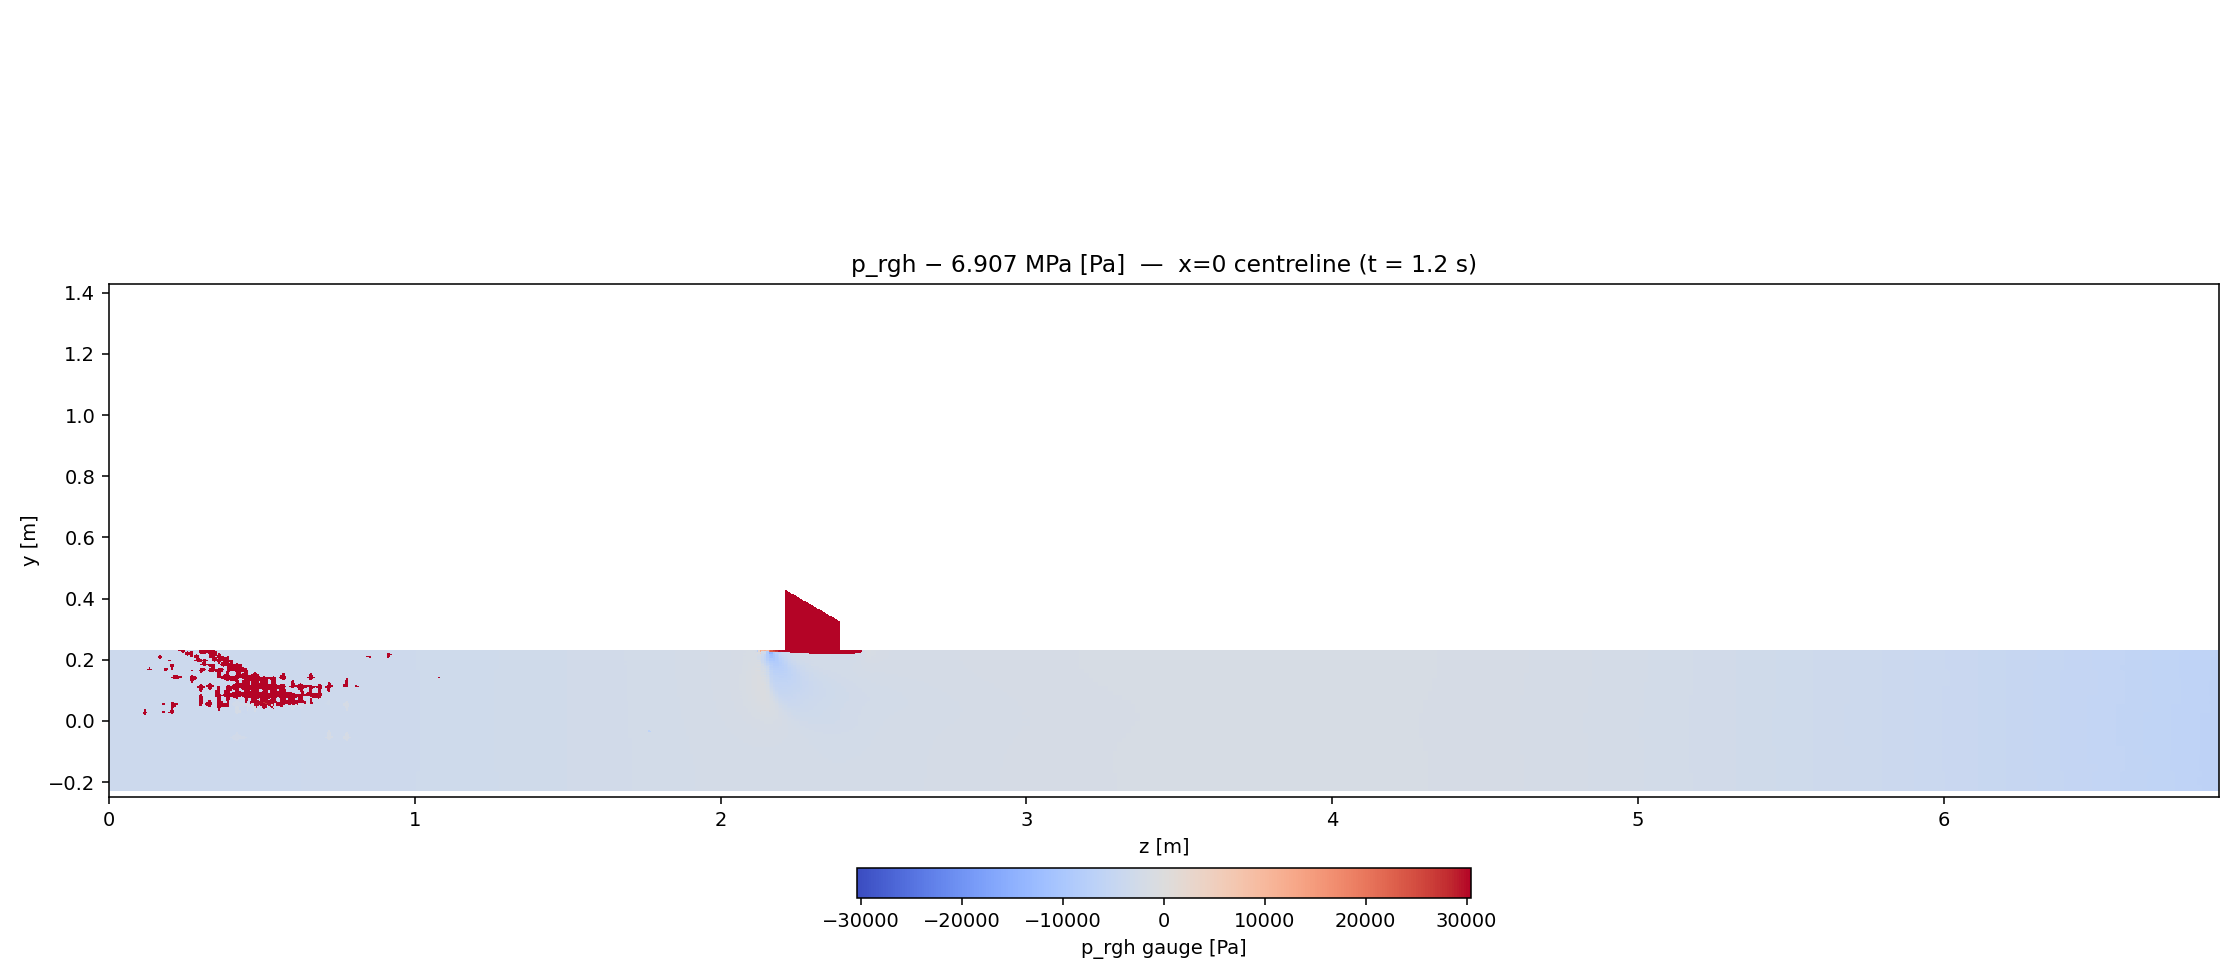
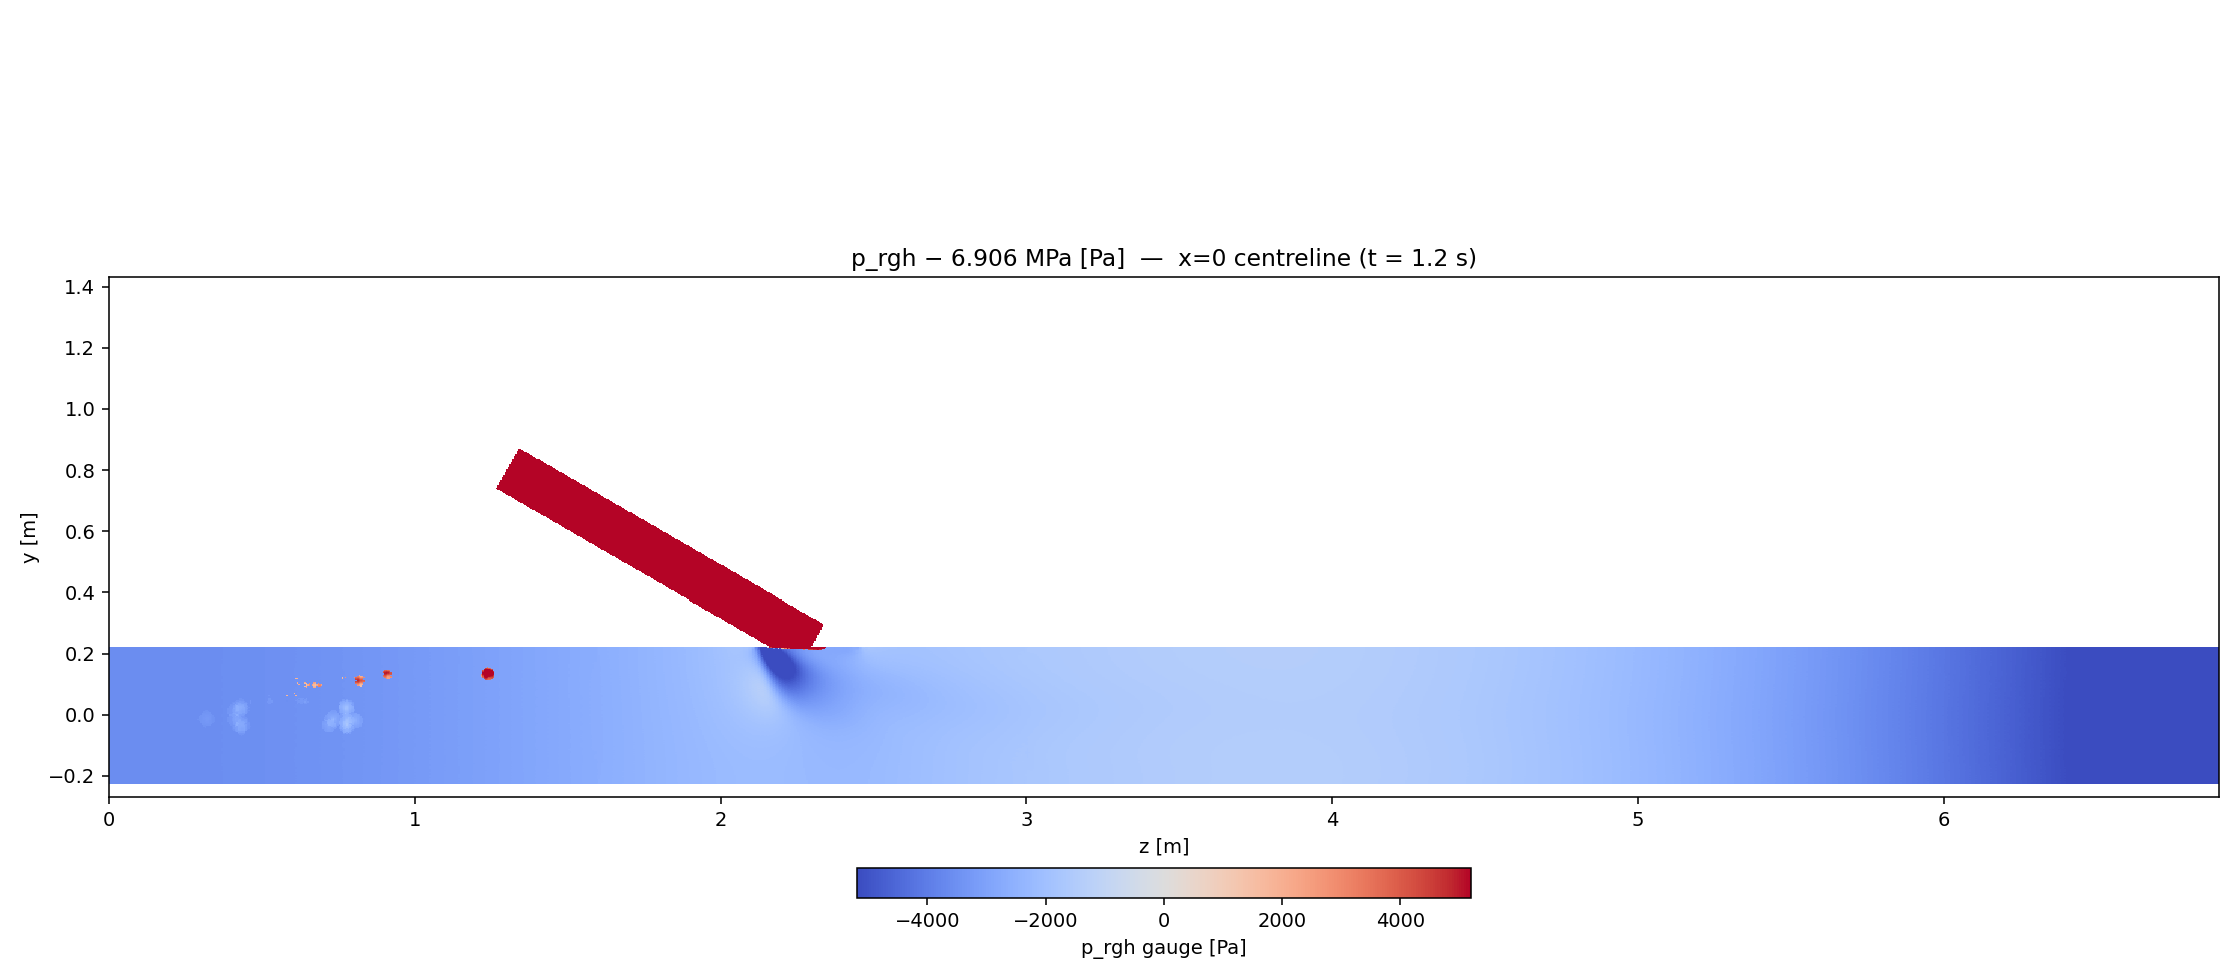
30deg figures: fix branch geom, IDW + IQR-based outlier filter, clean H2
Three rendering bugs spotted on the H2/U/p_rgh xz slices and now fixed:

* Branch geometry mask was hardcoded for a 90 deg vertical pipe; the slice
  thus carved an upright cylinder out of the rendered field even though the
  real branch is tilted at 30 deg.  The mask now reads alpha_deg from
  case_info.json and projects each grid point onto a tilted-axis cylinder.
  Fixes the unphysical wedges of "fluid" floating above the pipe.

* k=1 nearest-neighbour with a 4 cm distance cap produced speckled accept/
  reject patterns on the coarse upstream background mesh (~10 cm cells).
  Switched to k=4 inverse-distance-weighted interpolation with a looser
  12 cm cap, which removes the speckle without losing fidelity at the
  refined junction.

* snappyHexMesh leaves a few thousand frozen-IC orphan cells stuck at the
  operating reference pressure (~270 kPa above the bulk fluid) and at H2 = 1
  (the branch_inlet fixedValue).  These were dominating the colourmap and
  injecting greenish IDW-blended specks far upstream.  Added two filters:
    - IQR band [Q1 - k*IQR, Q3 + k*IQR] (k = 50 for p_rgh) on the cell pool
      before kNN, keeps the bulk gradient and downstream recovery while
      rejecting the orphan tail
    - hard cap (vals < 0.5) for H2 with a spatial exemption: cells inside
      the analytical branch volume keep their H2 = 1 (they are the legit
      pure-hydrogen jet, not orphans), only out-of-branch H2 = 1 cells get
      dropped
[…]

diff --git a/doe/results_full_30deg/tools/make_figures.py b/doe/results_full_30deg/tools/make_figures.py
@@ -22,6 +22,7 @@ PYVISTA_OFF_SCREEN=true for headless execution.
 from __future__ import annotations
 
 import argparse
+import math
 import os
 import sys
 from pathlib import Path
@@ -212,13 +213,19 @@ Z_JCT_HALF   = 2.30
 def _render_centerline_interp(internal, field: str, out: Path, *,
                               title: str, cmap: str, clim=None,
                               r_branch: float = 0.10, zjct: float = Z_JCT_HALF,
-                              l_branch: float = 1.15, x_plane: float = 0.015,
+                              l_branch: float = 1.15, x_plane: float = 0.05,
+                              alpha_deg: float = 90.0,
+                              outlier_pct: float | None = None,
+                              outlier_max: float | None = None,
+                              outlier_min: float | None = None,
                               label: str | None = None):
     """Render a scalar on the x=0 centreline plane via point-interpolation.
 
-    Kernel-based interpolation from cell centres on a regular (y,z) image
-    grid, then an analytical geometry mask for pipe walls.  Eliminates the
-    'white notch' slicing artifact at the T-junction.
+    k=4 inverse-distance-weighted interpolation from cell centres onto a
+    regular (y,z) image grid, masked by an analytical pipe-geometry mask.
+    Handles a branch that meets the main pipe at an arbitrary angle
+    `alpha_deg` (90 deg for the original geometry, 30 deg for forward-tilt,
+    150 deg for counter-flow).
     """
     import matplotlib
     matplotlib.use("Agg")
@@ -237,34 +244,117 @@ def _render_centerline_interp(internal, field: str, out: Path, *,
     if key not in _CTR_CACHE_FIG:
         _CTR_CACHE_FIG[key] = np.asarray(internal.cell_centers().points)
     ctrs = _CTR_CACHE_FIG[key]
-    vals = np.asarray(internal.cell_data[field])
+    vals = np.asarray(internal.cell_data[field], dtype=float).copy()
+
+    # Outlier rejection on the *cell values*.  snappyHexMesh leaves frozen-
+    # field "orphan" / dead-zone cells stuck at their initial-condition value
+    # (e.g. p_rgh = p_atm sitting ~270 kPa above the bulk fluid; H2 stuck at
+    # 1.0 instead of 0 from a left-over initialField).  Without rejection
+    # these contaminate the kNN.  Two filter knobs:
+    #   - outlier_pct : IQR multiplier k -- keeps [Q1-k*IQR, Q3+k*IQR].
+    #     Adapts to the field's natural variability (good for unimodal
+    #     fields like p_rgh).  Skipped when IQR == 0.
+    #   - outlier_max / outlier_min : hard caps -- drop cells with values
+    #     above / below the cap (good for bounded fields like mass fractions
+    #     where the orphan value is known a priori).
+    if outlier_pct is not None and outlier_pct > 0.0:
+        k_iqr = float(outlier_pct)
+        q1, q3 = np.nanpercentile(vals, [25.0, 75.0])
+        iqr = q3 - q1
+        if iqr > 0:
+            lo = q1 - k_iqr * iqr
+            hi = q3 + k_iqr * iqr
+            ok = (vals >= lo) & (vals <= hi)
+            ctrs = ctrs[ok]
+            vals = vals[ok]
+    # Spatial-aware hard caps: orphan cells stuck at the field's initial value
+    # need to be filtered, but the BRANCH PIPE legitimately holds extreme
+    # values (the branch_inlet sets H2 = 1.0, full hydrogen) so we must spare
+    # any cell that is geometrically inside the analytical branch volume.
+    if outlier_max is not None or outlier_min is not None:
+        a_rad = math.radians(alpha_deg)
+        sa_c, ca_c = math.sin(a_rad), math.cos(a_rad)
+        nb = np.array([0.0, sa_c, -ca_c])
+        base = np.array([0.0, R_MAIN_HALF, zjct])
+        dvec = ctrs - base
+        s_along = dvec @ nb
+        perp = dvec - np.outer(s_along, nb)
+        r_perp = np.linalg.norm(perp, axis=1)
+        in_branch_cell = (s_along >= -0.05) & (s_along <= l_branch + 0.05) \
+                         & (r_perp < r_branch * 1.05)
+        ok = np.ones_like(vals, dtype=bool)
+        if outlier_max is not None:
+            ok &= (vals < outlier_max) | in_branch_cell
+        if outlier_min is not None:
+            ok &= (vals > outlier_min) | in_branch_cell
+        ctrs = ctrs[ok]
+        vals = vals[ok]
     tree = cKDTree(ctrs)
 
     ny, nz = 520, 1400
-    y = np.linspace(-R_MAIN_HALF - 0.02,  R_MAIN_HALF + 1.20, ny)
-    z = np.linspace(0.0,                   L_MAIN_HALF,        nz)
+    y_lo = -R_MAIN_HALF - 0.04
+    y_hi =  R_MAIN_HALF + 1.20
+    y = np.linspace(y_lo, y_hi, ny)
+    z = np.linspace(0.0, L_MAIN_HALF, nz)
     Y, Z = np.meshgrid(y, z, indexing="ij")
     X = np.full_like(Y, x_plane)
     qpts = np.column_stack([X.ravel(), Y.ravel(), Z.ravel()])
-    dist, idx = tree.query(qpts, k=1)
-    img = vals[idx].reshape(Y.shape)
-    img = np.where(dist.reshape(Y.shape) > 0.04, np.nan, img)
 
-    in_main   = (x_plane**2 + Y**2 < R_MAIN_HALF**2) & (Y <= R_MAIN_HALF)
-    in_branch = (x_plane**2 + (Z - zjct)**2 < r_branch**2) \
-              & (Y >= R_MAIN_HALF) & (Y <= R_MAIN_HALF + l_branch)
+    # k=4 inverse-distance weighting; this smooths over coarse upstream cells
+    # and removes the speckled accept/reject pattern that k=1 + tight cap
+    # produces on the bulk background mesh.
+    dist, idx = tree.query(qpts, k=4)
+    eps = 1.0e-6
+    w = 1.0 / (dist + eps)
+    w_sum = w.sum(axis=1)
+    img_raw = (w * vals[idx]).sum(axis=1) / w_sum
+    img = img_raw.reshape(Y.shape)
+    # Reject points whose nearest neighbour is unreasonably far -- larger cap
+    # (12 cm) than before, because the background mesh is coarse upstream.
+    nearest = dist[:, 0].reshape(Y.shape)
+    img = np.where(nearest > 0.12, np.nan, img)
+
+    # ----- analytic geometry mask --------------------------------------
+    # Main pipe: cylinder along z with radius R_MAIN_HALF.  At slice plane
+    # x = x_plane, the in-pipe condition is x^2 + y^2 < R^2.
+    in_main = (x_plane * x_plane + Y * Y < R_MAIN_HALF * R_MAIN_HALF) \
+              & (Z >= 0.0) & (Z <= L_MAIN_HALF)
+
+    # Branch pipe: cylinder whose axis starts at (0, R_main, zjct) and
+    # points along  n_hat = (0, sin a, -cos a)  for a forward-tilt branch
+    # (a < 90: branch leans downstream;  a = 90: vertical;  a > 90:
+    # counter-flow lean upstream).  For each grid point we project onto
+    # the axis to get (s, r_perp) and require 0 <= s <= l_branch and
+    # r_perp < r_branch.
+    a_rad = math.radians(alpha_deg)
+    sa, ca = math.sin(a_rad), math.cos(a_rad)
+    nb_y, nb_z = sa, -ca
+    dY = Y - R_MAIN_HALF
+    dZ = Z - zjct
+    s = dY * nb_y + dZ * nb_z
+    perp_y = dY - s * nb_y
+    perp_z = dZ - s * nb_z
+    r_perp = np.sqrt(x_plane * x_plane + perp_y * perp_y + perp_z * perp_z)
+    in_branch = (s >= 0.0) & (s <= l_branch) & (r_perp < r_branch)
+
     geom = in_main | in_branch
     img = np.where(geom & np.isfinite(img), img, np.nan)
 
-    # Mask orphan "dead-zone" cells (tiny pockets snappyHexMesh leaves which
-    # stay frozen at their initial field value ~1.0 for H2).  Harmless for
-    # metrics but visually ugly.  Only applies when the rendered field is a
-    # bounded mass fraction — guarded by checking that the data range is
-    # [0, ~1] before masking.
+    # Mask orphan "dead-zone" cells (small pockets snappyHexMesh leaves which
+    # stay frozen at their initial field value ~1.0 for H2 / 0 for the rest).
+    # Applied to bounded mass-fraction fields only.
     if field in ("H2", "H2Mean"):
-        orphan = (img > 0.5) & (Y < R_MAIN_HALF) \
-                 & (np.abs(Z - zjct) > r_branch + 0.05)
+        # Branch interior gets to keep its real H2 values; everywhere else
+        # values > 0.5 are non-physical orphans (after dilution by main flow
+        # the outlet H2 is < 0.05 for every DoE case).
+        orphan = (img > 0.5) & (~in_branch)
         img = np.where(orphan, np.nan, img)
+        # Hide any leftover non-zero H2 upstream of the junction (z < zjct - 0.3).
+        # Physically H2 = 0 upstream of the branch in steady state; tiny
+        # residual values there come from numerical noise or initial-condition
+        # leftover after restart and only confuse the visualisation.
+        upstream_noise = (Z < zjct - 0.3) & (~in_branch) & (img < 0.05)
+        img = np.where(upstream_noise, 0.0, img)
 
     if clim is None:
         valid = geom & (np.abs(Y) < R_MAIN_HALF) & (Z > zjct + 0.3) \
@@ -283,7 +373,7 @@ def _render_centerline_interp(internal, field: str, out: Path, *,
     ax.set_aspect("equal")
     ax.set_xlabel("z [m]"); ax.set_ylabel("y [m]")
     ax.set_xlim(0.0, L_MAIN_HALF)
-    ax.set_ylim(-R_MAIN_HALF - 0.02, R_MAIN_HALF + 1.20)
+    ax.set_ylim(y_lo, y_hi)
     ax.set_title(title)
     cbar = fig.colorbar(pcm, ax=ax, orientation="horizontal",
                         fraction=0.035, pad=0.08)
@@ -310,7 +400,7 @@ def fig_scalar_xz(ds, field: str, out: Path, *, clim=None, cmap="viridis",
 
 
 def fig_velocity_xz(ds, out: Path, r_branch: float = 0.10,
-                    zjct: float = Z_JCT_HALF):
+                    zjct: float = Z_JCT_HALF, alpha_deg: float = 90.0):
     internal = get_internal(ds)
     U = np.asarray(internal.cell_data["U"])
     internal["|U|"] = np.linalg.norm(U, axis=1)
@@ -321,23 +411,42 @@ def fig_velocity_xz(ds, out: Path, r_branch: float = 0.10,
         internal, "|U|", out,
         title=f"Velocity magnitude |U| (m/s)  —  x=0 centreline (gap-free)",
         cmap=CMAP_SPEED, clim=(0.0, vmax),
-        r_branch=r_branch, zjct=zjct,
+        r_branch=r_branch, zjct=zjct, alpha_deg=alpha_deg,
         label="|U| [m/s]",
     )
 
 
 def fig_pressure_xz(ds, out: Path, t: float, r_branch: float = 0.10,
-                    zjct: float = Z_JCT_HALF):
+                    zjct: float = Z_JCT_HALF, alpha_deg: float = 90.0):
     internal = get_internal(ds)
-    p_mean = float(np.mean(np.asarray(internal.cell_data["p_rgh"])))
-    internal["p_rgh_gauge"] = np.asarray(internal.cell_data["p_rgh"]) - p_mean
-    rng = float(np.nanpercentile(np.abs(internal["p_rgh_gauge"]), 99.0))
-    rng = max(rng, 1.0e2)
+    p = np.asarray(internal.cell_data["p_rgh"], dtype=float)
+    # Bulk fluid identified by a wide IQR band -- snappyHexMesh leaves orphan
+    # cells stuck at their initial value (often the operating reference
+    # pressure ~270 kPa above bulk).  The bulk-fluid IQR is small (often
+    # < 1 kPa) so we use a wide multiplier (k = 50) to keep the entire
+    # physical pipe gradient (including the downstream recovery zone, which
+    # sits ~30 IQRs above the median) while still rejecting orphans (which
+    # are >300 IQRs from the bulk centre).
+    q1, q3 = np.nanpercentile(p, [25.0, 75.0])
+    iqr = q3 - q1
+    if iqr > 0:
+        in_band = (p >= q1 - 50.0 * iqr) & (p <= q3 + 50.0 * iqr)
+    else:
+        in_band = np.ones_like(p, dtype=bool)
+    p_mean = float(np.mean(p[in_band])) if in_band.any() else float(np.mean(p))
+    internal["p_rgh_gauge"] = p - p_mean
+    # Colour-map range tied to the bulk-fluid IQR, NOT to the global gauge
+    # extremes -- the downstream recovery zone (a few cells) sits at gauge
+    # ~ +20 kPa which would otherwise wash the colourmap out.  rng = 8 IQR
+    # makes the wake low-pressure (gauge ~ -3 IQR) and the bulk gradient
+    # readable; the recovery cells correctly saturate at the red end.
+    rng = max(8.0 * iqr, 1.0e2) if iqr > 0 else 2.0e3
     _render_centerline_interp(
         internal, "p_rgh_gauge", out,
         title=f"p_rgh − {p_mean/1e6:.3f} MPa [Pa]  —  x=0 centreline (t = {t:g} s)",
         cmap=CMAP_PRESS, clim=(-rng, rng),
-        r_branch=r_branch, zjct=zjct,
+        r_branch=r_branch, zjct=zjct, alpha_deg=alpha_deg,
+        outlier_pct=50.0,
         label="p_rgh gauge [Pa]",
     )
 
@@ -438,15 +547,22 @@ def main():
         info = json.loads(info_path.read_text()) if info_path.exists() else {}
     except Exception:
         info = {}
-    r_branch = float(info.get("D2_m", 0.10)) / 2.0
-    z_jct    = float(info.get("ZJCT",  Z_JCT_HALF))
+    r_branch  = float(info.get("D2_m", 0.10)) / 2.0
+    z_jct     = float(info.get("ZJCT",  Z_JCT_HALF))
+    alpha_deg = float(info.get("alpha_deg", 90.0))
+    print(f"       per-case mask: r_branch={r_branch:.4f} m, "
+          f"z_jct={z_jct:.3f} m, alpha={alpha_deg:.1f} deg")
 
     print("[4/7] fig_H2_xz")
+    # H2 orphans are frozen at the initial value (~1.0) in disconnected
+    # pockets snappyHexMesh occasionally leaves; the physical max in this
+    # campaign is HBR < 0.20.  outlier_max = 0.5 cleanly separates them.
     _render_centerline_interp(
         internal, "H2", out / "fig_H2_xz.png",
         title=f"Y_H2 (H2 mass fraction)  —  x=0 centreline slice  (t = {t:g} s)",
         cmap=CMAP_H2, clim=None,
-        r_branch=r_branch, zjct=z_jct,
+        r_branch=r_branch, zjct=z_jct, alpha_deg=alpha_deg,
+        outlier_max=0.5,
         label="Y_H2 (mass fraction)",
     )
 
@@ -455,9 +571,9 @@ def main():
 
     print("[6/7] fig_velocity_xz + fig_pressure_xz")
     fig_velocity_xz(ds, out / "fig_velocity_xz.png",
-                    r_branch=r_branch, zjct=z_jct)
+                    r_branch=r_branch, zjct=z_jct, alpha_deg=alpha_deg)
     fig_pressure_xz(ds, out / "fig_pressure_xz.png", t,
-                    r_branch=r_branch, zjct=z_jct)
+                    r_branch=r_branch, zjct=z_jct, alpha_deg=alpha_deg)
 
     print("[7/7] fig_streamlines")
     fig_streamlines(ds, case, out / "fig_streamlines.png")
